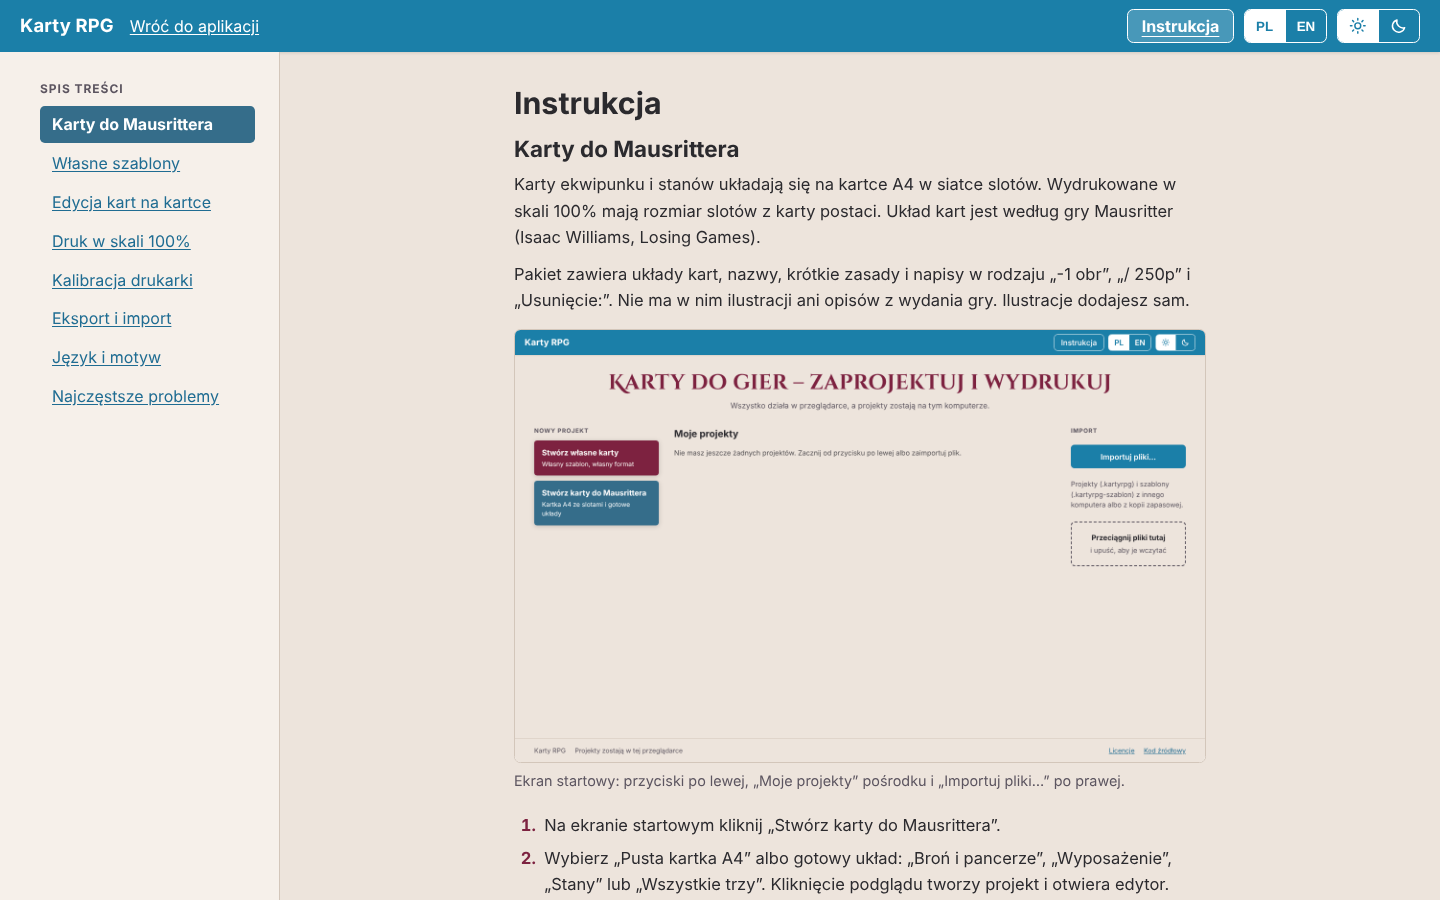
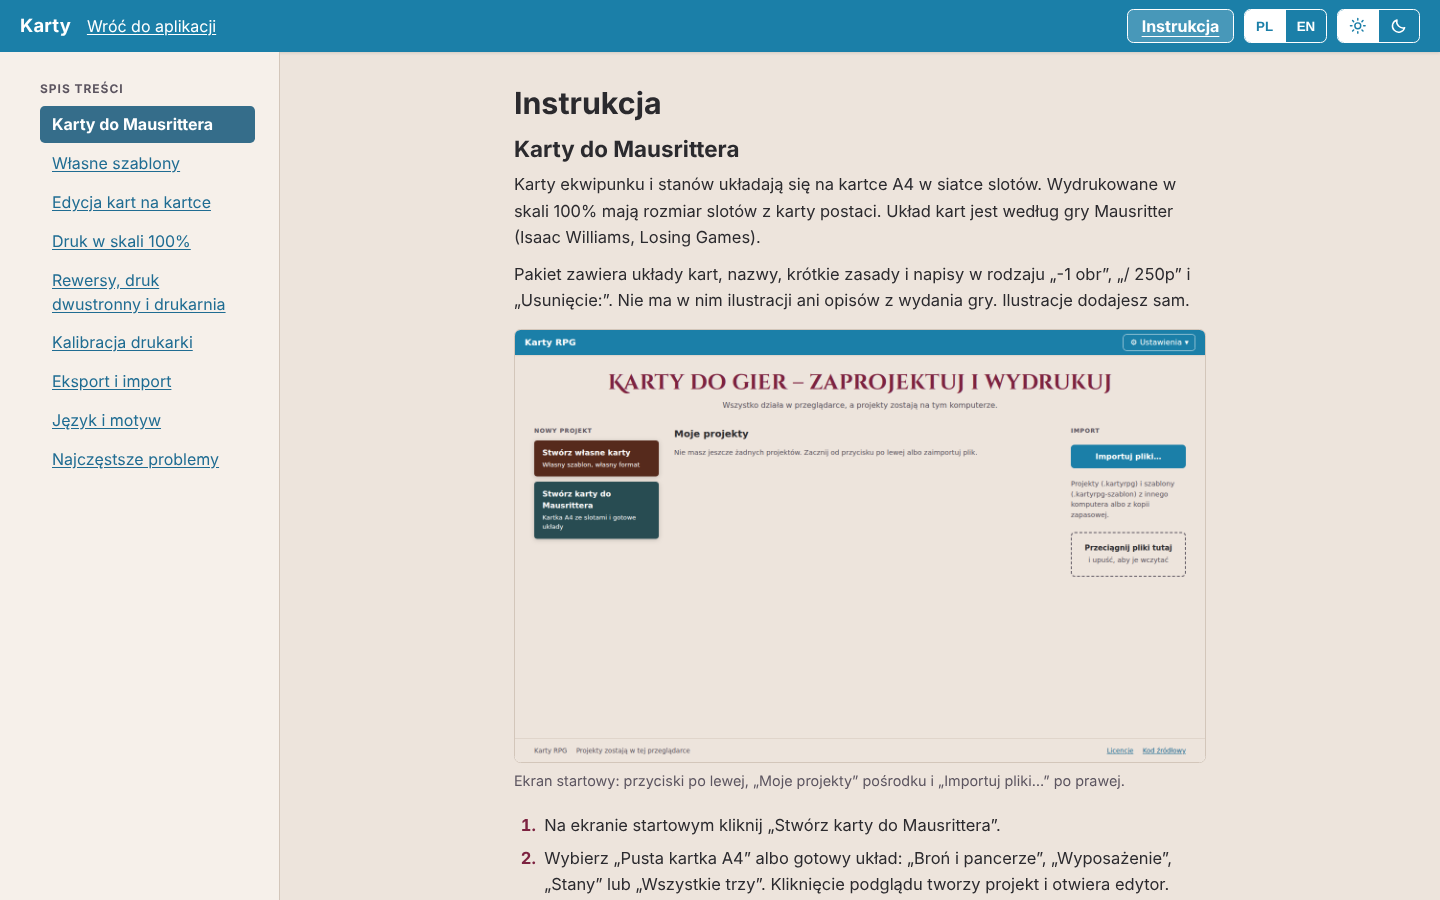
N7: instrukcja (układ ze zdjęcia, Biblioteki), plan etapu, zrzut Bibliotek
Claude-Session: https://claude.ai/code/session_01KHG9oLbEmTtwVRhYfZEsiT

diff --git a/instrukcja/index.html b/instrukcja/index.html
@@ -574,24 +574,34 @@
           </ul>
           <h3 id="pl-ai-i-galeria">Układ ze zdjęcia i galeria szablonów</h3>
           <p>
-            Nowy szablon możesz zacząć także od zdjęcia istniejącej karty albo pobrać gotowy
-            neutralny szablon z galerii online.
+            Układ istniejącej karty możesz rozpoznać ze zdjęcia prosto w edytorze, a gotowy
+            neutralny szablon pobrać z galerii online.
           </p>
           <ul>
             <li>
-              Na ekranie „Stwórz własne karty” kliknij „Układ ze zdjęcia (AI)”. Wpisz własny „Klucz
-              Claude API”, wskaż plik zdjęcia i kliknij „Rozpoznaj układ”. Po zaznaczeniu
-              „Zapamiętaj klucz w tej przeglądarce” klucz zostaje lokalnie i nigdy nie trafia do
-              eksportowanych plików; usuniesz go przyciskiem „Usuń zapisany klucz”.
+              W Edytorze szablonu albo w Edytorze rewersu kliknij „Układ ze zdjęcia” w górnym pasku.
+              Wpisz własny „Klucz Claude API”, kliknij „Wybierz zdjęcie karty…” i „Rozpoznaj układ”.
+              Po zaznaczeniu „Zapamiętaj klucz w tej przeglądarce” klucz zostaje lokalnie i nigdy
+              nie trafia do eksportowanych plików; usuniesz go przyciskiem „Usuń zapisany klucz”.
             </li>
             <li>
-              Model zwraca wyłącznie strukturę i proporcje pól bez kopiowania grafik ani treści. Po
-              sprawdzeniu podglądu kliknij „Otwórz w edytorze szablonu”, aby dopracować układ.
+              Rozpoznane pola trafiają na stronę, którą właśnie edytujesz (awers albo rewers), w jej
+              rozmiarze. Gdy strona ma już elementy, okno pyta, co z nimi zrobić: „Zastąp elementy”
+              albo „Dodaj obok”. Na pustej stronie wystarczy „Wstaw układ”. Rozmiar, tło i ramka
+              strony zostają, a wstawienie cofniesz przyciskiem „Cofnij”.
             </li>
             <li>
-              Na tym samym ekranie „Galeria szablonów online” pozwala wyszukiwać i filtrować
-              neutralne szablony oraz rewersy. Przycisk „Użyj szablonu” tworzy projekt, a szablon
-              trafia do zakładki „Moje szablony”.
+              Na awersie „Dołącz zdjęcie jako podkład (nie jest drukowany)” kładzie zdjęcie pod
+              podglądem i pomaga dopasować pola. Na rewersie pola są stałe (bez danych kart).
+            </li>
+            <li>
+              Model zwraca wyłącznie strukturę i proporcje pól bez kopiowania grafik ani treści.
+              Szczegóły dopracujesz zwykłymi narzędziami edytora.
+            </li>
+            <li>
+              Na ekranie „Stwórz własne karty” „Galeria szablonów online” pozwala wyszukiwać i
+              filtrować neutralne szablony oraz rewersy. Przycisk „Użyj szablonu” tworzy projekt, a
+              szablon trafia do zakładki „Moje szablony”.
             </li>
             <li>
               „Importuj szablon z linku (URL)” pobiera paczkę <code>.kartyrpg-szablon</code> z
@@ -891,9 +901,10 @@
           <h3 id="pl-czcionki-i-pdf">Katalog czcionek i wyszukiwanie w PDF</h3>
           <ul>
             <li>
-              W „Opcje druku i arkusza” oraz w oknie „Wgrywanie czcionek” sekcja „Katalog Google
-              Fonts” pozwala przeglądać kroje z polskimi znakami i dodawać je przyciskiem „Pobierz”.
-              Pobrana czcionka zapisuje się w projekcie i działa później bez dostępu do sieci.
+              W „Opcje druku i arkusza” oraz w „Biblioteki” (zakładka „Czcionki”) sekcja „Katalog
+              Google Fonts” pozwala przeglądać kroje z polskimi znakami i dodawać je przyciskiem
+              „Pobierz”. Pobrana czcionka zapisuje się w projekcie i działa później bez dostępu do
+              sieci.
             </li>
             <li>
               W sekcji „Opcje PDF” przełącznik „Niewidoczna warstwa tekstowa w PDF (wyszukiwanie i
@@ -996,16 +1007,30 @@
               projektu, nie da się usunąć. Usuń najpierw projekt.
             </li>
           </ul>
-          <h3 id="pl-biblioteka-globalna">Biblioteka ozdobników w przeglądarce</h3>
+          <h3 id="pl-biblioteki">Biblioteki: obrazy, czcionki i ozdobniki</h3>
+          <p>
+            Link „Biblioteki” w górnym pasku (obok menu „Ustawienia”) otwiera zasoby zapisane w tej
+            przeglądarce, wspólne dla wszystkich projektów. Zakładki „Obrazy”, „Czcionki” i
+            „Ozdobniki” mają ten sam układ: przycisk „Dodaj…”, pole wyszukiwania po nazwie i
+            podglądy na środku strony.
+          </p>
           <ul>
+            <li>„Obrazy” to pliki PNG i JPG. Każdy nowy projekt dostaje je od razu w zasobach.</li>
             <li>
-              „Globalna biblioteka ozdobników” (w „Biblioteka ozdobników”) przechowuje kopie
-              ozdobników dostępne we wszystkich projektach w tej przeglądarce.
+              „Czcionki” pokazują próbkę tekstu każdym krojem. Dodasz pliki TTF, OTF i WOFF albo
+              krój z „Katalog Google Fonts”. Czcionki z biblioteki są na listach czcionek we
+              wszystkich projektach.
             </li>
             <li>
-              Kliknij „Zapisz w bibliotece globalnej”, aby zachować ozdobnik do późniejszego użycia,
-              „Użyj”, aby dodać kopię do innego projektu, albo „Importuj do biblioteki…”, aby
-              wczytać plik paczki bez tworzenia nowego projektu.
+              „Ozdobniki” to ozdobniki i ramki: plik SVG, PNG (ramka 9-slice z wcięciami po trzecim)
+              albo paczka <code>.kartyrpg-ozdobnik</code>. „Eksportuj” zapisuje paczkę do pliku. Do
+              projektu ozdobnik wstawisz w bibliotece ozdobników projektu: rozwiń „Globalna
+              biblioteka ozdobników” i kliknij „Użyj”. Tam też „Zapisz w bibliotece globalnej”
+              zachowuje ozdobnik projektu na później.
+            </li>
+            <li>
+              „Usuń” działa od razu, bez pytania. Na dole ekranu pojawia się pasek z przyciskiem
+              „Cofnij”, który przywraca wpis. Kopie dodane już do projektów zostają.
             </li>
           </ul>
           <p>
@@ -1014,9 +1039,10 @@
           </p>
           <h2 id="pl-jezyk-motyw">Język i motyw</h2>
           <p>
-            Po prawej stronie górnego paska aplikacji jest rozwijane menu „Ustawienia”. Zawiera
-            przełącznik motywu („Motyw jasny” i „Motyw ciemny”), przełącznik języka („PL” i „EN”),
-            okna „Wgrywanie czcionek” i „Wgrywanie obrazów” oraz link „Instrukcja”.
+            Po prawej stronie górnego paska aplikacji są link „Biblioteki” i rozwijane menu
+            „Ustawienia”. Menu zawiera tylko konfigurację: przełącznik motywu („Motyw jasny” i
+            „Motyw ciemny”), przełącznik języka („PL” i „EN”), okno „Kolory przycisków” oraz link
+            „Instrukcja”.
           </p>
           <ul>
             <li>
@@ -1037,8 +1063,8 @@
               kolory pochodzą z szablonu.
             </li>
             <li>
-              „Wgrywanie czcionek” i „Wgrywanie obrazów” zapisują pliki globalnie w przeglądarce i
-              dołączają je do nowych projektów, a link „Instrukcja” otwiera tę stronę w nowym oknie.
+              Link „Instrukcja” otwiera tę stronę w nowym oknie. Czcionki i obrazy zapisane w
+              przeglądarce są w „Biblioteki”.
             </li>
           </ul>
           <h2 id="pl-problemy">Najczęstsze problemy</h2>
@@ -1072,7 +1098,7 @@
             </li>
             <li>
               <strong>Karta ma brakujące znaki albo inną czcionkę.</strong> Sprawdź czcionki w
-              „Opcje druku i arkusza” albo otwórz „Wgrywanie czcionek” w menu „Ustawienia”. Własną
+              „Opcje druku i arkusza” albo otwórz „Biblioteki” i zakładkę „Czcionki”. Własną
               czcionkę dodasz też przyciskiem „Wgraj własną czcionkę…”.
             </li>
           </ul>
@@ -1431,24 +1457,35 @@
           </ul>
           <h3 id="en-ai-i-galeria">Layout from photo and template gallery</h3>
           <p>
-            You can also start a new template from a photo of an existing card, or grab a neutral
-            template from the online gallery.
+            You can detect the layout of an existing card from a photo right in the editor, or grab
+            a neutral template from the online gallery.
           </p>
           <ul>
             <li>
-              On the “Create your own cards” screen, click “Layout from photo (AI)”. Enter your own
-              “Claude API key”, pick a photo file and click “Detect layout”. If you check “Remember
-              key in this browser”, the key stays local and never goes into exported files; you can
-              clear it with “Remove saved key”.
+              In the template editor or the card back editor, click “Layout from photo” in the top
+              bar. Enter your own “Claude API key”, click “Choose card photo…” and “Detect layout”.
+              If you check “Remember key in this browser”, the key stays local and never goes into
+              exported files; you can clear it with “Remove saved key”.
+            </li>
+            <li>
+              The detected fields go onto the side you are editing (front or back), at its size. If
+              the side already has elements, the dialog asks what to do with them: “Replace
+              elements” or “Add alongside”. On an empty side, just click “Insert layout”. The size,
+              background and frame of the side stay, and “Undo” takes the insertion back.
+            </li>
+            <li>
+              On the front, “Attach the photo as a reference image (not printed)” puts the photo
+              under the preview, which helps you line up the fields. On the back, fields are fixed
+              (no card data).
             </li>
             <li>
               The model returns only field structure and proportions without copying artwork or
-              text. Check the preview and click “Open in template editor” to adjust the layout.
+              text. You refine the details with the usual editor tools.
             </li>
             <li>
-              On the same screen, “Online template gallery” lets you search and filter neutral
-              templates and card backs. “Use template” starts a project, and the template appears in
-              the “My templates” tab.
+              On the “Create your own cards” screen, “Online template gallery” lets you search and
+              filter neutral templates and card backs. “Use template” starts a project, and the
+              template appears in the “My templates” tab.
             </li>
             <li>
               “Import template from URL” downloads a <code>.kartyrpg-szablon</code> package from a
@@ -1744,7 +1781,7 @@
           <h3 id="en-czcionki-i-pdf">Font catalog and searchable PDF</h3>
           <ul>
             <li>
-              In “Print &amp; sheet options” and in the “Upload fonts” dialog, “Google Fonts
+              In “Print &amp; sheet options” and in “Libraries” (the “Fonts” tab), “Google Fonts
               catalog” lists typefaces with Polish glyphs that you can add with “Download”. A
               downloaded typeface stays inside the project and works offline.
             </li>
@@ -1850,16 +1887,30 @@
               cannot be deleted. Delete the project first.
             </li>
           </ul>
-          <h3 id="en-biblioteka-globalna">Ornament library in the browser</h3>
+          <h3 id="en-biblioteki">Libraries: images, fonts and ornaments</h3>
+          <p>
+            The “Libraries” link in the top bar (next to the “Settings” menu) opens the resources
+            saved in this browser, shared by all projects. The “Images”, “Fonts” and “Ornaments”
+            tabs share the same layout: an “Add…” button, a search box by name and previews in the
+            middle of the page.
+          </p>
           <ul>
+            <li>“Images” are PNG and JPG files. Every new project gets them in its resources.</li>
             <li>
-              The “Global ornament library” (in “Ornament library”) keeps copies of ornaments
-              available across every project in this browser.
+              “Fonts” show a text sample in each typeface. Add TTF, OTF and WOFF files or a typeface
+              from the “Google Fonts catalog”. Library fonts appear in the font lists of all
+              projects.
             </li>
             <li>
-              Click “Save to global library” to keep an ornament for reuse, “Use” to add a copy to
-              another project, or “Import into library…” to load a package file without creating a
-              new project.
+              “Ornaments” are ornaments and frames: an SVG file, a PNG (a 9-slice frame with insets
+              at one third) or a <code>.kartyrpg-ozdobnik</code> package. “Export” saves the package
+              to a file. To put an ornament into a project, open the project’s ornament library,
+              expand “Global ornament library” and click “Use”. “Save to global library” there keeps
+              a project ornament for later.
+            </li>
+            <li>
+              “Delete” works at once, without asking. A bar with an “Undo” button appears at the
+              bottom of the screen and brings the entry back. Copies already added to projects stay.
             </li>
           </ul>
           <p>
@@ -1868,9 +1919,10 @@
           </p>
           <h2 id="en-jezyk-motyw">Language and theme</h2>
           <p>
-            On the right side of the app’s top bar there is the “Settings” dropdown menu. It holds
-            the theme switch (“Light theme” and “Dark theme”), the language switch (“PL” and “EN”),
-            the “Upload fonts” and “Upload images” dialogs and the “Guide” link.
+            On the right side of the app’s top bar there are the “Libraries” link and the “Settings”
+            dropdown menu. The menu holds configuration only: the theme switch (“Light theme” and
+            “Dark theme”), the language switch (“PL” and “EN”), the “Button colors” dialog and the
+            “Guide” link.
           </p>
           <ul>
             <li>
@@ -1891,8 +1943,8 @@
               white, and the colors come from the template.
             </li>
             <li>
-              “Upload fonts” and “Upload images” store files globally in the browser and attach them
-              to new projects, and the “Guide” link opens this page in a new window.
+              The “Guide” link opens this page in a new window. Fonts and images saved in the
+              browser are in “Libraries”.
             </li>
           </ul>
           <h2 id="en-problemy">Common problems</h2>
@@ -1925,7 +1977,7 @@
             </li>
             <li>
               <strong>A card has missing characters or the wrong font.</strong> Check the fonts in
-              “Print &amp; sheet options” or open “Upload fonts” in “Settings”. You can also add
+              “Print &amp; sheet options” or open the “Fonts” tab in “Libraries”. You can also add
               your own font with “Upload your own font…”.
             </li>
           </ul>

diff --git a/src/ui/App.css b/src/ui/App.css
@@ -3610,6 +3610,7 @@ button.maly {
 }
 
 .narzedzia-biblioteki {
+  width: 100%;
   display: flex;
   flex-wrap: wrap;
   justify-content: center;
@@ -3619,6 +3620,8 @@ button.maly {
 
 .szukaj-biblioteki {
   width: min(20rem, 100%);
+  padding: 0.4rem 0.6rem;
+  border-radius: 0.35rem;
 }
 
 .katalog-biblioteki {

diff --git a/docs/plan-N7.md b/docs/plan-N7.md
@@ -1,0 +1,45 @@
+# Etap N7 — układ ze zdjęcia w edytorze i Biblioteki
+
+## Zakres
+
+1. **Układ ze zdjęcia (AI) w Edytorze szablonu i rewersu** (`src/ui/szablon/OknoUkladuZeZdjecia.tsx`,
+   wspólne `EdytorDrzewa.tsx`): przycisk „Układ ze zdjęcia” w górnym pasku otwiera okno (klucz API,
+   zdjęcie, „Rozpoznaj układ”, podgląd). Pola trafiają na aktualnie edytowaną stronę (awers albo
+   rewers) w jej rozmiarze. Gdy strona ma elementy – „Zastąp elementy” / „Dodaj obok”, na pustej
+   „Wstaw układ”. Logika: `wstawUkladAi` w `src/dane/aiUklad.ts`. Usunięte: ekran `#/wlasne/ai`
+   (`KreatorAiStrona.tsx`) i kafelek na „Stwórz własne karty”.
+2. **Menu „Biblioteki”** (`#/biblioteki/obrazy|czcionki|ozdobniki`): link w pasku górnym obok
+   „Ustawień” (także w edytorach – przez straż niezapisanych zmian). Jeden komponent strony
+   `StronaBiblioteki` (zakładki, „Dodaj…”, wyszukiwarka, wyśrodkowana siatka podglądów, usuwanie
+   bez potwierdzenia z paskiem „Cofnij” – `PasekKomunikatu` z N6); podstrony w `Biblioteki.tsx`:
+   - Obrazy – miniatury; Czcionki – próbka tekstu każdym krojem (`FontFace`), pliki i „Katalog
+     Google Fonts”; Ozdobniki – miniatury ozdobników i ramek, dodawanie z SVG, PNG (ramka 9-slice)
+     i `.kartyrpg-ozdobnik` (`plikiOzdobnikow.ts`, `spakujOzdobnik` w `archiwum.ts`), „Eksportuj”.
+   - „Ustawienia” mają tylko konfigurację (motyw, język, kolory przycisków) i link do instrukcji;
+     okna „Wgrywanie czcionek / obrazów” (`OknaZasobow.tsx`) usunięte.
+3. Instrukcja: sekcje „Układ ze zdjęcia i galeria szablonów”, „Biblioteki: obrazy, czcionki
+   i ozdobniki” (nowe id `pl-biblioteki` / `en-biblioteki`), „Język i motyw”, katalog czcionek.
+
+Zrzut: `docs/obrazy/n7-biblioteki.png`.
+
+## Decyzje
+
+- „Zastąp” i „Dodaj obok” nie zmieniają rozmiaru, tła, ramki ani rogów strony – AI dostarcza tylko
+  pola. „Zastąp” czyści też przykładowe dane szablonu; „Dodaj obok” dokłada pola na koniec
+  korzenia (zawsze kontener swobodny) z nowymi id i kluczami (bez kolizji z danymi kart).
+- Rewers: pola stałe (tekst z przykładu AI), bez kluczy; tabele są pomijane (bez danych nic by nie
+  pokazały). Podkład ze zdjęcia – tylko awers (rewers nie ma podkładu).
+- Podgląd w oknie AI rysuje silnik edytora (czcionki projektu), jak po „Zastąp”.
+- Stary adres `#/wlasne/ai` pokazuje ekran „Stwórz własne karty”.
+- Biblioteki są globalne (przeglądarka), bez kontekstu projektu. Znika „Dodaj do projektu” z okien
+  zasobów: czcionki z biblioteki i tak są na listach czcionek w edytorach (synchronizacja przy
+  użyciu), obrazy trafiają do nowych projektów. Dług (do decyzji właściciela): brak drogi „obraz
+  z biblioteki → istniejący projekt”.
+- Ozdobnik do projektu nadal przez bibliotekę ozdobników projektu („Globalna biblioteka ozdobników”
+  → „Użyj”); jej przycisk „Usuń” (z `confirm`) przeniesiony do „Bibliotek”, w panelu jest link
+  „Zarządzaj w Bibliotekach”. Strona ozdobników projektu (edycja rodzaju, ramki 9-slice) zostaje.
+- SVG dodany wprost do „Bibliotek” dostaje rodzaj rozpoznany przy imporcie i kolor jednolity; PNG –
+  ramkę 9-slice z wcięciami po trzecim. Zmiana rodzaju / wcięć – po „Użyj” w projekcie.
+- „Cofnij” zapisuje wpis z tym samym id i bajtami; nowe usunięcie zastępuje poprzedni pasek,
+  zmiana zakładki go zamyka. Jedna operacja na bazie naraz (jak w N6).
+- Wyszukiwarka – ta sama normalizacja co w N6 (`doSzukania`); lista posortowana po nazwie.

diff --git a/CLAUDE.md b/CLAUDE.md
@@ -13,8 +13,9 @@ Pages (`/karty-rpg/`, routing przez `location.hash`).
   eksport/import szablonu w edytorze, przeciąganie na gładziku, paski, zapis ręczny w edytorze szablonu),
   blok „wartość w kształcie” N4 (`docs/plan-N4.md`: proporcje kształtu, etykieta obok, nowe kształty),
   strona startowa i listy N6 (`docs/plan-N6.md`: Moje szablony na „Stwórz własne karty”, bez
-  biblioteki globalnej szablonów, usuwanie z paskiem „Cofnij”, szukanie/sortowanie, „Duplikuj”).
-- Kolejne etapy (N7…) ustala właściciel – plan i decyzje zapisuj w `docs/plan-<nazwa>.md`.
+  biblioteki globalnej szablonów, usuwanie z paskiem „Cofnij”, szukanie/sortowanie, „Duplikuj”),
+  układ ze zdjęcia w edytorze i menu „Biblioteki” N7 (`docs/plan-N7.md`).
+- Kolejne etapy (N8…) ustala właściciel – plan i decyzje zapisuj w `docs/plan-<nazwa>.md`.
 - Schemat projektu: `WERSJA_SCHEMATU = 28` (`src/model/projekt.ts`), baza Dexie w wersji 4.
 
 ## Gdzie co jest
@@ -62,9 +63,12 @@ model  →  ozdobniki / silnik  →  druk  →  dane  →  ui
     w `mojeSzablony.ts`), kreatory,
     import, galeria online.
   - `szablon/` – Edytor szablonu (awers): drzewo, panele właściwości, tryb swobodny (mysz);
-    `EdytorDrzewa.tsx` – część wspólna z Edytorem rewersu (zmiany edytora robi się tam).
+    `EdytorDrzewa.tsx` – część wspólna z Edytorem rewersu (zmiany edytora robi się tam), okno
+    „Układ ze zdjęcia” (`OknoUkladuZeZdjecia.tsx`).
+  - `biblioteki/` – ekran „Biblioteki” (`#/biblioteki/…`: obrazy, czcionki, ozdobniki w przeglądarce;
+    wspólny `StronaBiblioteki.tsx`).
   - `rewers/` – Edytor rewersu (nakładka na `EdytorDrzewa`). `kartka/` – Edytor kart (dane kart, układ kartki, druk, pobieranie).
-  - `biblioteka/` – biblioteka globalna szablonów/ozdobników, edytor ramki 9-slice.
+  - `biblioteka/` – biblioteka ozdobników projektu (z panelem globalnych), edytor ramki 9-slice.
   - Style: `tokeny.css` (zmienne motywów), `App.css`, `edytory.css`, `pasek.css`.
 - `testy/` – Playwright (`*.spec.ts`, wzorce `*-snapshots/`, pomocniki `*UI.ts`, `pomoc.ts`).
 - `narzedzia/`, `scripts/` – generatory galerii, obrazów testowych, katalogu Google Fonts.
